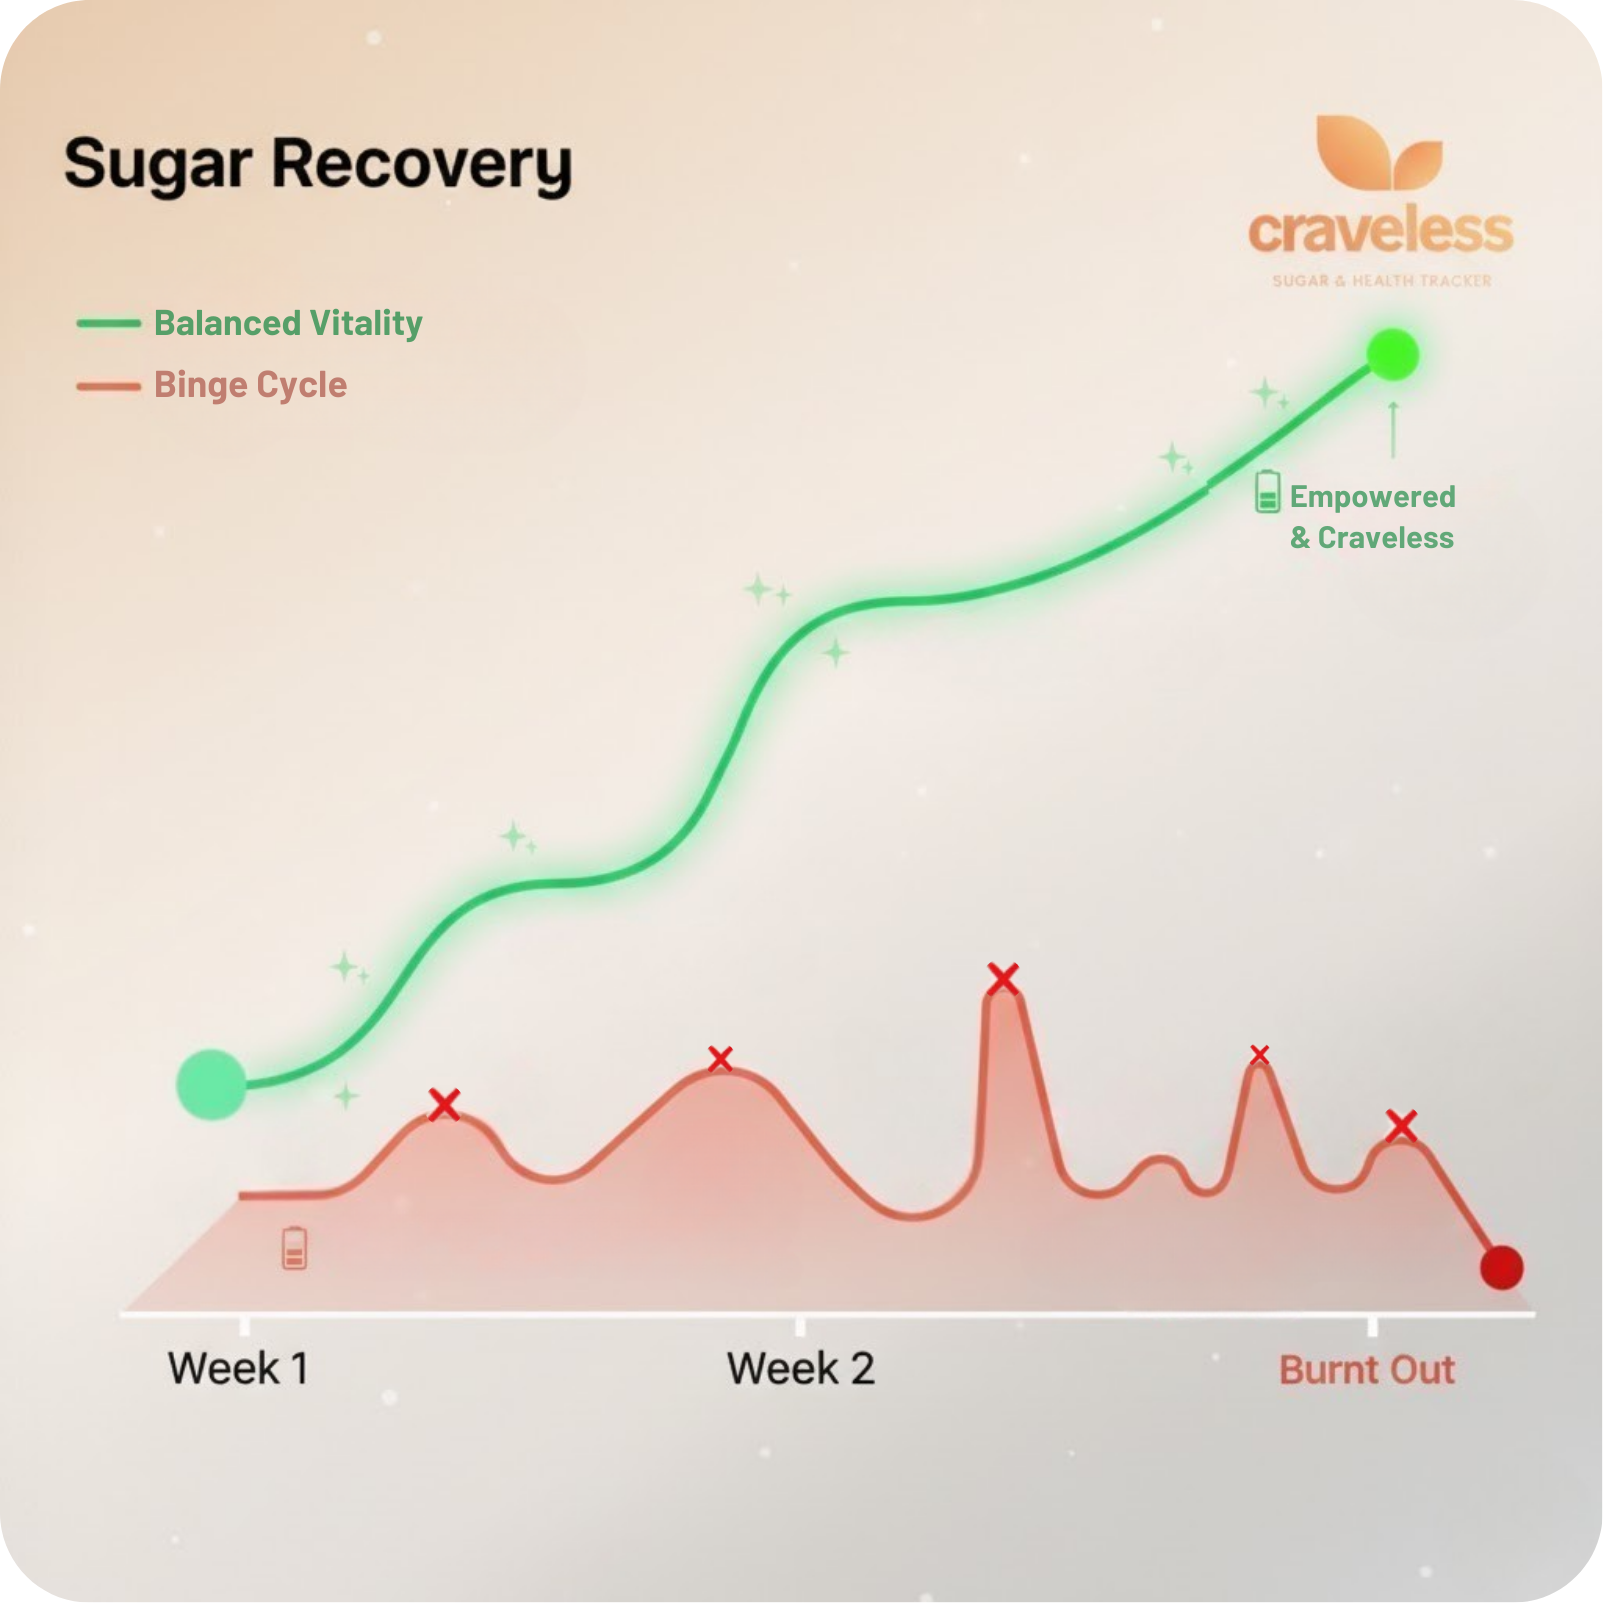
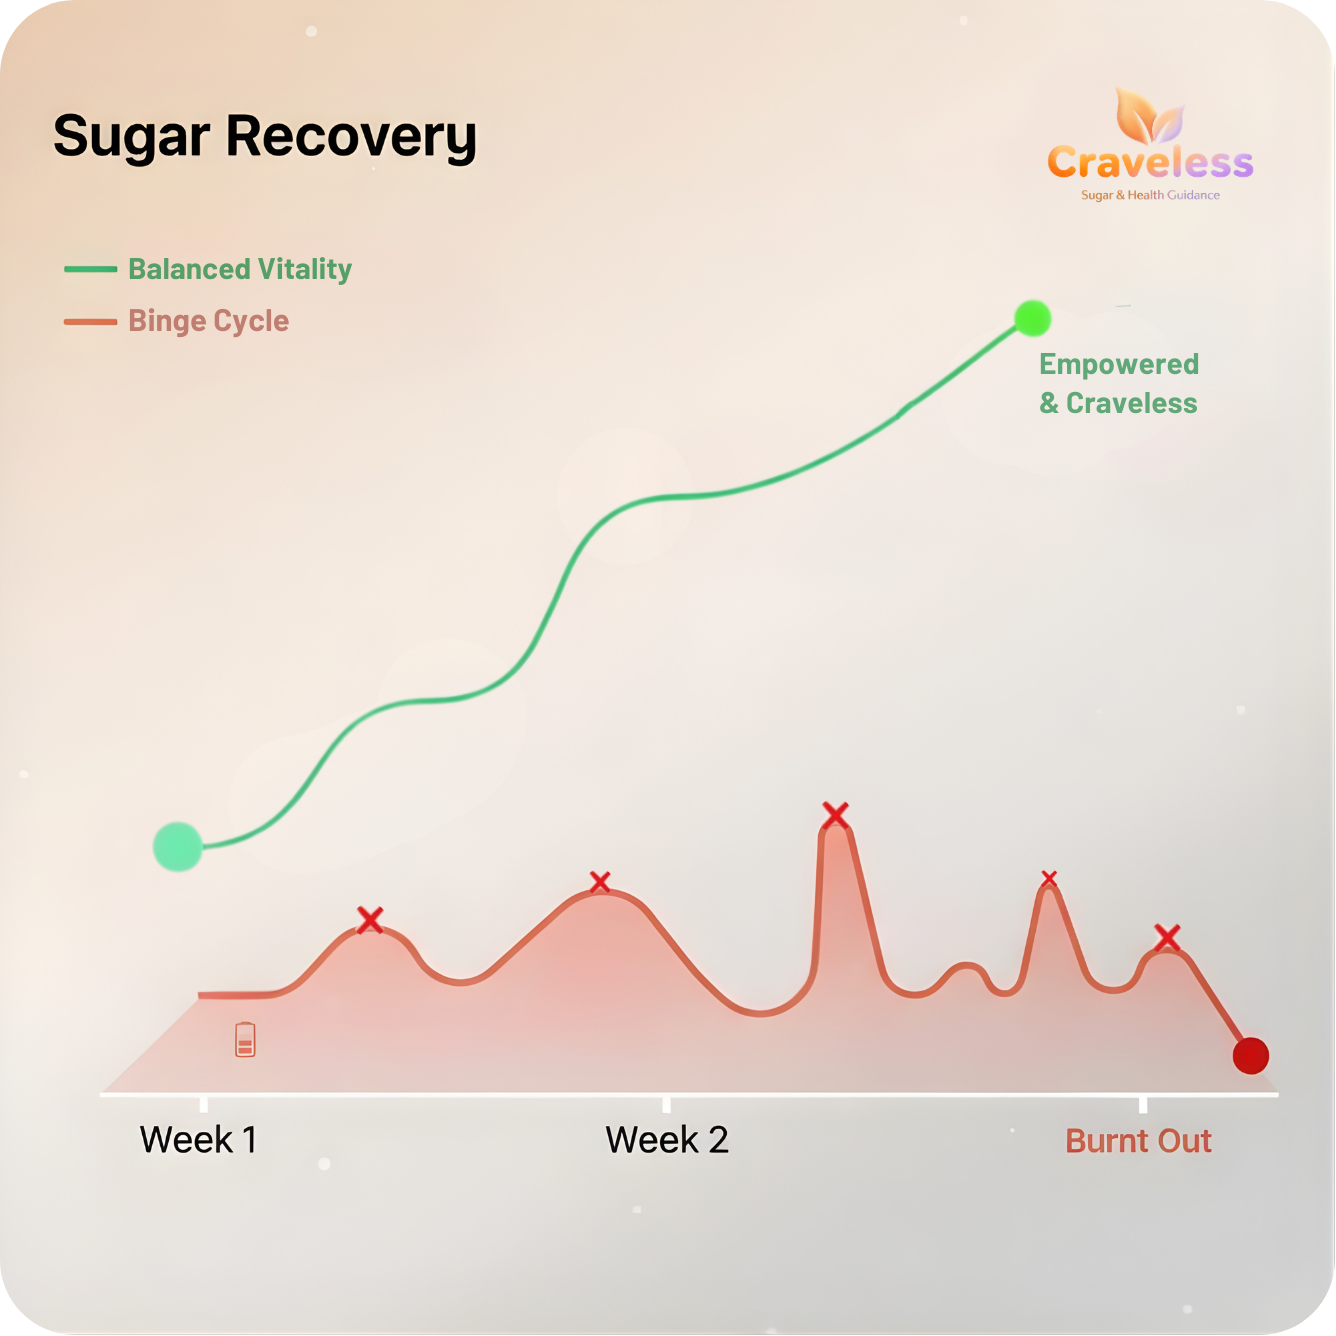
Swap out graph

diff --git a/scripts/export-onboarding-backgrounds.js b/scripts/export-onboarding-backgrounds.js
@@ -1,0 +1,165 @@
+#!/usr/bin/env node
+/**
+ * Exports onboarding gradient backgrounds as 9:16 PNGs (pure JS, no native deps).
+ * Requires: npm install pngjs
+ * Output: brand-assets/onboarding-background-coral-9x16.png, onboarding-background-blue-9x16.png
+ */
+
+const fs = require('fs');
+const path = require('path');
+const { PNG } = require('pngjs');
+
+const W = 1080;
+const H = 1920;
+const BASE = { r: 245, g: 240, b: 235 };
+const OUT_DIR = path.join(__dirname, '..', 'brand-assets');
+
+function parseColor(s) {
+  if (s === 'transparent') return { r: 0, g: 0, b: 0, a: 0 };
+  const m = s.match(/rgba?\((\d+),\s*(\d+),\s*(\d+)(?:,\s*([\d.]+))?\)/);
+  if (!m) return { r: 0, g: 0, b: 0, a: 0 };
+  return { r: +m[1], g: +m[2], b: +m[3], a: m[4] !== undefined ? +m[4] : 1 };
+}
+
+// Linear gradient: start/end in 0..1 coords. Returns t in 0..1 for point (nx,ny) in 0..1.
+function gradientT(nx, ny, start, end) {
+  const dx = end.x - start.x, dy = end.y - start.y;
+  const len2 = dx * dx + dy * dy;
+  if (len2 < 1e-10) return 0;
+  let t = ((nx - start.x) * dx + (ny - start.y) * dy) / len2;
+  return Math.max(0, Math.min(1, t));
+}
+
+function sampleStops(t, stops) {
+  const parsed = stops.map(([loc, color]) => ({ loc, ...parseColor(color) }));
+  if (t <= parsed[0].loc) return [parsed[0].r, parsed[0].g, parsed[0].b, parsed[0].a];
+  if (t >= parsed[parsed.length - 1].loc) {
+    const p = parsed[parsed.length - 1];
+    return [p.r, p.g, p.b, p.a];
+  }
+  for (let i = 0; i < parsed.length - 1; i++) {
+    const a = parsed[i], b = parsed[i + 1];
+    if (t >= a.loc && t <= b.loc) {
+      const u = (t - a.loc) / (b.loc - a.loc);
+      return [
+        Math.round(a.r + u * (b.r - a.r)),
+        Math.round(a.g + u * (b.g - a.g)),
+        Math.round(a.b + u * (b.b - a.b)),
+        a.a + u * (b.a - a.a),
+      ];
+    }
+  }
+  return [0, 0, 0, 0];
+}
+
+function blendOver(bottom, top) {
+  const [tr, tg, tb, ta] = top;
+  if (ta <= 0) return bottom;
+  if (ta >= 1) return top;
+  const a = 1 - ta;
+  return [
+    Math.round(bottom[0] * a + tr * ta),
+    Math.round(bottom[1] * a + tg * ta),
+    Math.round(bottom[2] * a + tb * ta),
+    Math.min(1, bottom[3] + ta * (1 - bottom[3])),
+  ];
+}
+
+function drawLayer(w, h, start, end, stops, basePixels) {
+  const out = basePixels.slice();
+  for (let y = 0; y < h; y++) {
+    for (let x = 0; x < w; x++) {
+      const nx = x / w, ny = y / h;
+      const t = gradientT(nx, ny, start, end);
+      const [r, g, b, a] = sampleStops(t, stops);
+      const idx = (w * y + x) << 2;
+      const bottom = [out[idx], out[idx + 1], out[idx + 2], out[idx + 3] / 255];
+      const top = [r, g, b, a];
+      const blended = blendOver(bottom, top);
+      out[idx] = blended[0];
+      out[idx + 1] = blended[1];
+      out[idx + 2] = blended[2];
+      out[idx + 3] = Math.round(blended[3] * 255);
+    }
+  }
+  return out;
+}
+
+function renderCoral() {
+  let pixels = new Uint8Array(W * H * 4);
+  for (let i = 0; i < W * H; i++) {
+    pixels[i * 4] = BASE.r;
+    pixels[i * 4 + 1] = BASE.g;
+    pixels[i * 4 + 2] = BASE.b;
+    pixels[i * 4 + 3] = 255;
+  }
+  const layer1 = [
+    [0, 'rgba(232, 168, 124, 0.95)'],
+    [0.2, 'rgba(238, 196, 160, 0.7)'],
+    [0.4, 'rgba(242, 228, 216, 0.4)'],
+    [0.6, 'rgba(245, 240, 235, 0.1)'],
+    [1, 'rgba(245, 240, 235, 0)'],
+  ];
+  const layer2 = [
+    [0, 'rgba(245, 240, 235, 0)'],
+    [0.5, 'rgba(245, 240, 235, 0)'],
+    [0.75, 'rgba(197, 228, 240, 0.2)'],
+    [1, 'rgba(168, 216, 232, 0.35)'],
+  ];
+  pixels = drawLayer(W, H, { x: 0, y: 0 }, { x: 1, y: 0.8 }, layer1, pixels);
+  pixels = drawLayer(W, H, { x: 0, y: 0 }, { x: 1, y: 1 }, layer2, pixels);
+  return pixels;
+}
+
+function renderBlue() {
+  let pixels = new Uint8Array(W * H * 4);
+  for (let i = 0; i < W * H; i++) {
+    pixels[i * 4] = BASE.r;
+    pixels[i * 4 + 1] = BASE.g;
+    pixels[i * 4 + 2] = BASE.b;
+    pixels[i * 4 + 3] = 255;
+  }
+  const layer1 = [
+    [0, 'rgba(168, 216, 232, 0.8)'],
+    [0.3, 'rgba(197, 228, 240, 0.6)'],
+    [0.55, 'rgba(197, 228, 240, 0.35)'],
+    [1, 'rgba(245, 240, 235, 0.1)'],
+  ];
+  const layer2 = [
+    [0, 'rgba(245, 240, 235, 0)'],
+    [0.5, 'rgba(245, 240, 235, 0)'],
+    [0.75, 'rgba(232, 168, 124, 0.25)'],
+    [1, 'rgba(238, 196, 160, 0.4)'],
+  ];
+  pixels = drawLayer(W, H, { x: 0.8, y: 0 }, { x: 0.2, y: 1 }, layer1, pixels);
+  pixels = drawLayer(W, H, { x: 0.5, y: 0 }, { x: 0, y: 1 }, layer2, pixels);
+  return pixels;
+}
+
+function writePng(pixels, filepath) {
+  const png = new PNG({ width: W, height: H });
+  for (let i = 0; i < pixels.length; i++) png.data[i] = pixels[i];
+  return new Promise((resolve, reject) => {
+    png.pack()
+      .pipe(fs.createWriteStream(filepath))
+      .on('finish', resolve)
+      .on('error', reject);
+  });
+}
+
+async function main() {
+  if (!fs.existsSync(OUT_DIR)) fs.mkdirSync(OUT_DIR, { recursive: true });
+
+  const coralPath = path.join(OUT_DIR, 'onboarding-background-coral-9x16.png');
+  await writePng(renderCoral(), coralPath);
+  console.log('Wrote', coralPath);
+
+  const bluePath = path.join(OUT_DIR, 'onboarding-background-blue-9x16.png');
+  await writePng(renderBlue(), bluePath);
+  console.log('Wrote', bluePath);
+}
+
+main().catch((e) => {
+  console.error(e);
+  process.exit(1);
+});

diff --git a/brand-assets/export-onboarding-backgrounds.html b/brand-assets/export-onboarding-backgrounds.html
@@ -1,0 +1,109 @@
+<!DOCTYPE html>
+<html lang="en">
+<head>
+  <meta charset="UTF-8">
+  <meta name="viewport" content="width=device-width, initial-scale=1.0">
+  <title>Export onboarding backgrounds (9:16)</title>
+  <style>
+    * { box-sizing: border-box; }
+    body { font-family: system-ui, sans-serif; padding: 24px; background: #1a1a1a; color: #eee; }
+    h1 { font-size: 1.25rem; margin-bottom: 8px; }
+    p { color: #999; margin-bottom: 24px; }
+    .previews { display: flex; gap: 24px; flex-wrap: wrap; margin-bottom: 24px; }
+    .card { background: #2a2a2a; border-radius: 12px; padding: 16px; }
+    .card h2 { font-size: 1rem; margin: 0 0 12px 0; font-weight: 600; }
+    .preview-wrap { border-radius: 8px; overflow: hidden; border: 1px solid #444; margin-bottom: 12px; }
+    .preview-wrap canvas { display: block; width: 100%; height: auto; max-width: 270px; }
+    button { background: #E8A87C; color: #1a1a1a; border: none; padding: 10px 16px; border-radius: 8px; font-weight: 600; cursor: pointer; }
+    button:hover { background: #EEC4A0; }
+  </style>
+</head>
+<body>
+  <h1>Onboarding background exports (9:16)</h1>
+  <p>Same gradients as LooviBackground (coralTop = orange, blueDominant = blue). Click to download PNG.</p>
+  <div class="previews">
+    <div class="card">
+      <h2>Coral / Orange</h2>
+      <div class="preview-wrap"><canvas id="previewCoral" width="270" height="480"></canvas></div>
+      <button type="button" id="dlCoral">Download coral (9:16 PNG)</button>
+    </div>
+    <div class="card">
+      <h2>Blue / Violet</h2>
+      <div class="preview-wrap"><canvas id="previewBlue" width="270" height="480"></canvas></div>
+      <button type="button" id="dlBlue">Download blue (9:16 PNG)</button>
+    </div>
+  </div>
+
+  <script>
+    const BASE = '#F5F0EB';
+    const W = 1080, H = 1920; // 9:16 high-res
+
+    function drawLayer(ctx, w, h, start, end, stops) {
+      const x0 = start.x * w, y0 = start.y * h, x1 = end.x * w, y1 = end.y * h;
+      const g = ctx.createLinearGradient(x0, y0, x1, y1);
+      stops.forEach(([loc, color]) => g.addColorStop(loc, color));
+      ctx.fillStyle = g;
+      ctx.fillRect(0, 0, w, h);
+    }
+
+    function renderCoral(canvas) {
+      const ctx = canvas.getContext('2d');
+      const w = canvas.width, h = canvas.height;
+      ctx.fillStyle = BASE;
+      ctx.fillRect(0, 0, w, h);
+      drawLayer(ctx, w, h, { x: 0, y: 0 }, { x: 1, y: 0.8 }, [
+        [0, 'rgba(232, 168, 124, 0.95)'],
+        [0.2, 'rgba(238, 196, 160, 0.7)'],
+        [0.4, 'rgba(242, 228, 216, 0.4)'],
+        [0.6, 'rgba(245, 240, 235, 0.1)'],
+        [1, 'transparent'],
+      ]);
+      drawLayer(ctx, w, h, { x: 0, y: 0 }, { x: 1, y: 1 }, [
+        [0, 'transparent'],
+        [0.5, 'transparent'],
+        [0.75, 'rgba(197, 228, 240, 0.2)'],
+        [1, 'rgba(168, 216, 232, 0.35)'],
+      ]);
+    }
+
+    function renderBlue(canvas) {
+      const ctx = canvas.getContext('2d');
+      const w = canvas.width, h = canvas.height;
+      ctx.fillStyle = BASE;
+      ctx.fillRect(0, 0, w, h);
+      drawLayer(ctx, w, h, { x: 0.8, y: 0 }, { x: 0.2, y: 1 }, [
+        [0, 'rgba(168, 216, 232, 0.8)'],
+        [0.3, 'rgba(197, 228, 240, 0.6)'],
+        [0.55, 'rgba(197, 228, 240, 0.35)'],
+        [1, 'rgba(245, 240, 235, 0.1)'],
+      ]);
+      drawLayer(ctx, w, h, { x: 0.5, y: 0 }, { x: 0, y: 1 }, [
+        [0, 'transparent'],
+        [0.5, 'transparent'],
+        [0.75, 'rgba(232, 168, 124, 0.25)'],
+        [1, 'rgba(238, 196, 160, 0.4)'],
+      ]);
+    }
+
+    function download(canvas, filename) {
+      const c = document.createElement('canvas');
+      c.width = W;
+      c.height = H;
+      if (filename.includes('coral')) renderCoral(c);
+      else renderBlue(c);
+      const a = document.createElement('a');
+      a.download = filename;
+      a.href = c.toDataURL('image/png');
+      a.click();
+    }
+
+    const previewCoral = document.getElementById('previewCoral');
+    const previewBlue = document.getElementById('previewBlue');
+    renderCoral(previewCoral);
+    renderBlue(previewBlue);
+
+    document.getElementById('dlCoral').onclick = () => download(previewCoral, 'onboarding-background-coral-9x16.png');
+    document.getElementById('dlBlue').onclick = () => download(previewBlue, 'onboarding-background-blue-9x16.png');
+  </script>
+</body>
+</html>
